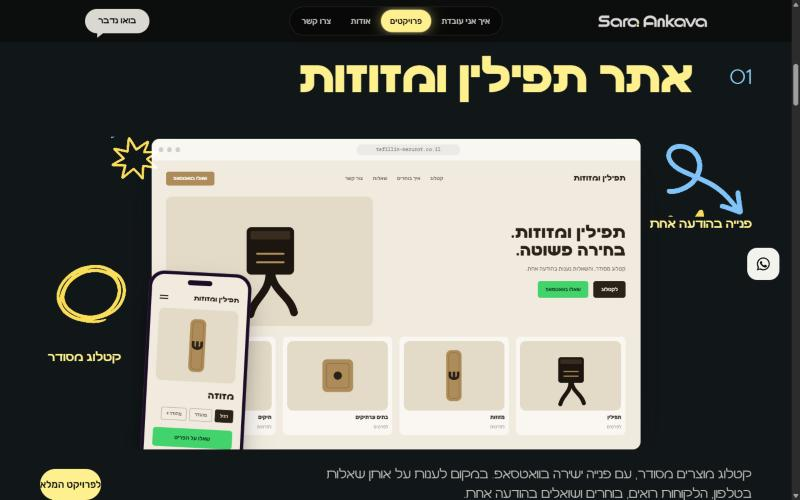
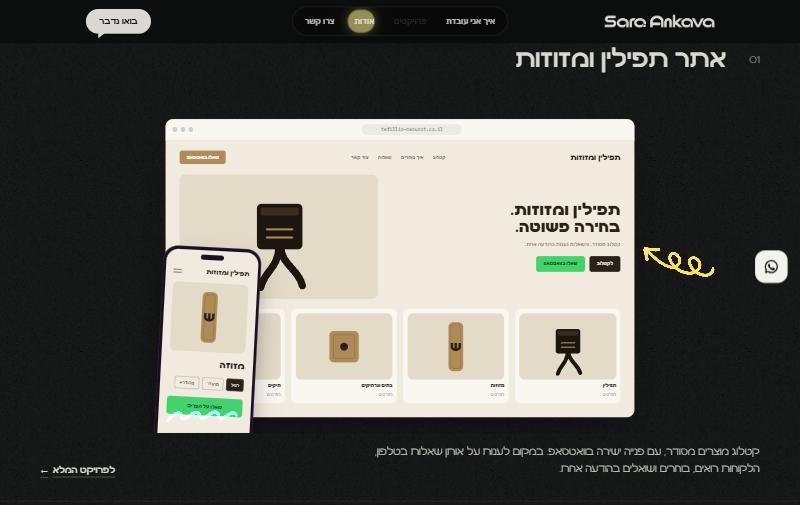
v6 projects: restrained redesign, 44px/500 names, grain charcoal, thin doodles, text links

diff --git a/versions/v6/index.html b/versions/v6/index.html
@@ -18,7 +18,7 @@
 <link rel="preload" href="assets/fonts/SaraAnkava-Bold-v1.2.woff2" as="font" type="font/woff2" crossorigin>
 <link rel="stylesheet" href="assets/css/style.css?v=6">
 <link rel="stylesheet" href="assets/css/v4.css?v=4">
-<link rel="stylesheet" href="assets/css/v6.css?v=65">
+<link rel="stylesheet" href="assets/css/v6.css?v=68">
 <meta name="robots" content="noindex">
 <script>document.documentElement.classList.add('js');setTimeout(function(){if(!window.__saReady)document.documentElement.classList.remove('js')},3000)</script>
 <script type="application/ld+json">
@@ -69,10 +69,10 @@
 
   <!-- 03 · פרויקטים: טורים זה לצד זה. מעבר עכבר פותח טור ומציג את המוקאפ -->
   <section class="pj" id="projects" aria-labelledby="projects-title">
-    <div class="pj__head"><span class="pj__eye">פרויקטים נבחרים</span><h2 id="projects-title">כל עסק הוא סיפור אחר, גם האתר שלו צריך להיות.</h2><a class="btn btn--ghost" href="projects.html">לכל הפרויקטים</a></div>
+    <div class="pj__head"><span class="pj__eye">פרויקטים נבחרים</span><h2 id="projects-title">כל עסק הוא סיפור אחר, גם האתר שלו צריך להיות.</h2><a class="pj__lnk" href="projects.html">לכל הפרויקטים <span aria-hidden="true">←</span></a></div>
     <div class="pj__list" data-pj>
       <article class="pj__row is-open" tabindex="0">
-        <header class="pj__bar"><span class="pj__n">01</span><h3 class="pj__t">אתר תפילין ומזוזות</h3><i class="dd dd--zig pj__z" style="--ar:520/230;--bs:384.62%;--bp:93.58% 87.04%"></i></header>
+        <header class="pj__bar"><span class="pj__n">01</span><h3 class="pj__t">אתר תפילין ומזוזות</h3></header>
         <div class="pj__body"><div class="pj__stage"><div class="pj__mk"><div class="mk mk--tef" aria-hidden="true"><div class="mk__win"><div class="mk__bar"><b></b><b></b><b></b><span lang="en" dir="ltr">tefillin-mezuzot.co.il</span></div>
   <div class="mk__page">
     <div class="mk__nav"><span class="mk__brand">תפילין ומזוזות</span><span class="mk__links"><span>קטלוג</span><span>איך בוחרים</span><span>שאלות</span><span>צור קשר</span></span><span class="mk__cta">שאלו בוואטסאפ</span></div>
@@ -92,11 +92,11 @@
     <b class="mk__ph">מזוזה</b>
     <div class="mk__chips"><span class="on">רגיל</span><span>מהודר</span><span>מהודר+</span></div>
     <span class="mk__pbtn">שאלו על הפריט</span>
-  </div></div></div></div><i class="dd dd--loop d1 flip" style="--ar:460/420;--bs:434.78%;--bp:52.27% 8.21%"></i><span class="pj__note pn1">פנייה בהודעה אחת</span><i class="dd dd--circle d2" style="--ar:500/430;--bs:400.00%;--bp:93.67% 7.20%"></i><span class="pj__note pn2">קטלוג מסודר</span><i class="dd dd--star d3" style="--ar:450/405;--bs:444.44%;--bp:57.10% 48.49%"></i></div>
-          <div class="pj__txt"><p>קטלוג מוצרים מסודר, עם פנייה ישירה בוואטסאפ. במקום לענות על אותן שאלות בטלפון, הלקוחות רואים, בוחרים ושואלים בהודעה אחת.</p><a class="btn btn--primary" href="projects.html#tefillin">לפרויקט המלא</a></div></div>
+  </div></div></div></div><i class="dd dd--spiral n1 y rr flipx" style="--ar:665/290;--bs:300.75%;--bp:6.74% 11.98%"></i><i class="dd dd--wave n2 b" style="--ar:705/130;--bs:283.69%;--bp:6.95% 49.46%"></i></div>
+          <div class="pj__txt"><p>קטלוג מוצרים מסודר, עם פנייה ישירה בוואטסאפ. במקום לענות על אותן שאלות בטלפון, הלקוחות רואים, בוחרים ושואלים בהודעה אחת.</p><a class="pj__lnk" href="projects.html#tefillin">לפרויקט המלא <span aria-hidden="true">←</span></a></div></div>
       </article>
       <article class="pj__row" tabindex="0">
-        <header class="pj__bar"><span class="pj__n">02</span><h3 class="pj__t">הכל לגן</h3><i class="dd dd--zig pj__z" style="--ar:520/230;--bs:384.62%;--bp:93.58% 87.04%"></i></header>
+        <header class="pj__bar"><span class="pj__n">02</span><h3 class="pj__t">הכל לגן</h3></header>
         <div class="pj__body"><div class="pj__stage"><div class="pj__mk"><div class="mk mk--gan" aria-hidden="true"><div class="mk__win"><div class="mk__bar"><b></b><b></b><b></b><span lang="en" dir="ltr">hakol-lagan.co.il</span></div>
   <div class="mk__page">
     <div class="mk__nav"><span class="mk__brand">הכל לגן</span><span class="mk__links"><span>קטגוריות</span><span>סניפים</span><span>מבצעים</span><span>צור קשר</span></span><span class="mk__cta">לסניף הקרוב</span></div>
@@ -109,13 +109,13 @@
     <div class="mk__ptop"><span class="mk__brand">הכל לגן</span><span class="mk__ham"><i></i><i></i></span></div>
     <div class="mk__search mk__search--sm"><span>מה הגננת מחפשת?</span></div>
     <div class="mk__grid6"><div style="--c:#FF7A3D"><i></i><span>ריהוט</span></div><div style="--c:#7FD1C7"><i></i><span>יצירה</span></div><div style="--c:#B9A7FF"><i></i><span>משחקים</span></div><div style="--c:#9ED36A"><i></i><span>חצר</span></div><div style="--c:#FFC1D6"><i></i><span>כיתה</span></div><div style="--c:#FFD66B"><i></i><span>אומנות</span></div></div>
-  </div></div></div></div><i class="dd dd--spiral d1 sp" style="--ar:665/290;--bs:300.75%;--bp:6.74% 11.98%"></i><span class="pj__note pn1">חיפוש לפי מה שגננת צריכה</span><i class="dd dd--hash d2" style="--ar:345/345;--bs:579.71%;--bp:5.44% 86.54%"></i><span class="pj__note pn2">4 חנויות</span><i class="dd dd--heart d3" style="--ar:335/355;--bs:597.01%;--bp:61.56% 90.49%"></i></div>
-          <div class="pj__txt"><p>אפיון ואתר חדש לרשת של ארבע חנויות לציוד גני ילדים. אתר שמסדר את המבחר הענק לפי מה שגננת באמת מחפשת.</p><a class="btn btn--primary" href="projects.html#gan">לפרויקט המלא</a></div></div>
+  </div></div></div></div><i class="dd dd--spiral n1 y ll" style="--ar:665/290;--bs:300.75%;--bp:6.74% 11.98%"></i></div>
+          <div class="pj__txt"><p>אפיון ואתר חדש לרשת של ארבע חנויות לציוד גני ילדים. אתר שמסדר את המבחר הענק לפי מה שגננת באמת מחפשת.</p><a class="pj__lnk" href="projects.html#gan">לפרויקט המלא <span aria-hidden="true">←</span></a></div></div>
       </article>
       <article class="pj__row" tabindex="0">
-        <header class="pj__bar"><span class="pj__n">03</span><h3 class="pj__t">הפרויקט הבא שלכם</h3><i class="dd dd--zig pj__z" style="--ar:520/230;--bs:384.62%;--bp:93.58% 87.04%"></i></header>
-        <div class="pj__body"><div class="pj__stage"><i class="dd dd--circle big" style="--ar:500/430;--bs:400.00%;--bp:93.67% 7.20%"></i><span class="pj__note pn3">קונספט</span><i class="dd dd--bubble d2 bb" style="--ar:500/350;--bs:400.00%;--bp:94.00% 52.90%"></i><i class="dd dd--sun d3" style="--ar:430/420;--bs:465.12%;--bp:32.80% 88.72%"></i></div>
-          <div class="pj__txt"><p>המקום הזה שמור לעסק הבא. אולי שלכם?</p><a class="btn btn--primary" href="#contact">ספרו לי על העסק</a></div></div>
+        <header class="pj__bar"><span class="pj__n">03</span><h3 class="pj__t">הפרויקט הבא שלכם</h3></header>
+        <div class="pj__body"><div class="pj__stage"><i class="dd dd--spiral n3 y" style="--ar:665/290;--bs:300.75%;--bp:6.74% 11.98%"></i></div>
+          <div class="pj__txt"><p>המקום הזה שמור לעסק הבא. אולי שלכם?</p><a class="pj__lnk" href="#contact">ספרו לי על העסק <span aria-hidden="true">←</span></a></div></div>
       </article>
     </div>
   </section>

diff --git a/versions/v6/assets/css/v6.css b/versions/v6/assets/css/v6.css
@@ -486,3 +486,37 @@ body::before,body::after{display:none!important}
 @media (max-width:900px){.pj__mk{width:92%}.pj__stage .dd,.pj__note{display:none}.pj__body{grid-template-rows:1fr}.pj__row .pj__mk{opacity:1;transform:none}.pj__z{display:none}}
 @media (prefers-reduced-motion:reduce){.pj__body,.pj__mk,.pj__stage .dd{transition:none}}
 .pn1{top:36%}
+
+/* ===== פרויקטים · מאופק: פחם מגורען אחיד, שמות עד 44px במשקל 500, ציורי טוש קטנים ודקים, לינקים בטקסט ===== */
+.pj{background:#121413;padding:clamp(64px,7vw,110px) 0 clamp(56px,6vw,96px)}
+.pj::before{content:"";position:absolute;inset:0;background-image:var(--v6-n);background-size:170px;mix-blend-mode:overlay;opacity:.55;pointer-events:none}
+.pj>*{position:relative}
+.pj__eye{font-size:15px;font-weight:300;color:rgb(217 217 210 / .6)}
+.pj__head h2{font:500 clamp(26px,3vw,44px)/1.15 "Sara Ankava",system-ui,sans-serif;letter-spacing:-.01em;max-width:22ch}
+.pj__row,.pj__row:nth-child(even),.pj__row.is-open{background:transparent}
+.pj__bar{padding:clamp(16px,1.8vw,24px) var(--v6-m);gap:clamp(14px,2vw,28px);border-top:1px solid rgb(217 217 210 / .12)}
+.pj__row:first-child .pj__bar{border-top:0}
+.pj__n{font:300 clamp(14px,1.2vw,18px) "Sara Ankava",system-ui,sans-serif;color:rgb(217 217 210 / .55);min-width:2.4ch}
+.pj__t{font:500 clamp(26px,3vw,44px)/1.1 "Sara Ankava",system-ui,sans-serif;letter-spacing:-.01em;color:rgb(217 217 210 / .72)}
+.pj__row.is-open .pj__t{color:var(--v6-stone)}
+.pj__stage{padding:clamp(24px,4vw,64px) var(--v6-m) clamp(10px,2vw,28px)}
+.pj__mk{width:min(840px,58vw)}
+.pj__stage .dd{opacity:0;position:absolute}
+.pj__row.is-open .pj__stage .dd{opacity:1}
+.dd.y{filter:none}
+.dd.n1{width:clamp(70px,7vw,110px);inset-inline-start:18%;top:14%}
+.dd.n1.flipx{transform:scaleX(-1)}
+.dd.n2{width:clamp(80px,8vw,120px);inset-inline-end:16%;bottom:6%}
+.dd.n3{position:relative!important;width:clamp(90px,9vw,140px);margin-top:6px}
+/* צבע: צהוב רק בציורי הטוש (פילטר מגביל את הציור לגוון אחד), תכלת בקו אחד */
+.dd.y{filter:hue-rotate(0deg)}
+.pj__txt{padding:clamp(10px,1.4vw,20px) var(--v6-m) clamp(24px,3vw,44px);align-items:flex-end}
+.pj__txt p{font:300 clamp(16px,1.3vw,19px)/1.55 "Sara Ankava",system-ui,sans-serif;max-width:48ch}
+.pj__lnk{display:inline-flex;gap:8px;align-items:center;color:var(--v6-stone);font:500 16px "Sara Ankava",system-ui,sans-serif;text-decoration:underline;text-decoration-thickness:1px;text-underline-offset:6px;text-decoration-color:rgb(217 217 210 / .5);transition:text-decoration-color .25s}
+.pj__lnk:hover{text-decoration-color:var(--v6-stone)}
+@media (max-width:900px){.pj__mk{width:92%}.pj__stage .dd{display:none}}
+.dd.n1{inset-inline-start:auto;width:clamp(90px,9vw,140px);top:46%}
+.dd.n1.rr{left:calc(50% + 29vw + 14px)}
+.dd.n1.ll{right:calc(50% + 29vw + 14px)}
+.dd.n2{inset-inline-end:auto;left:calc(50% - 29vw);bottom:3%;width:clamp(90px,9vw,130px)}
+.dd.n2{left:calc(50% + 29vw + 20px);bottom:18%}
